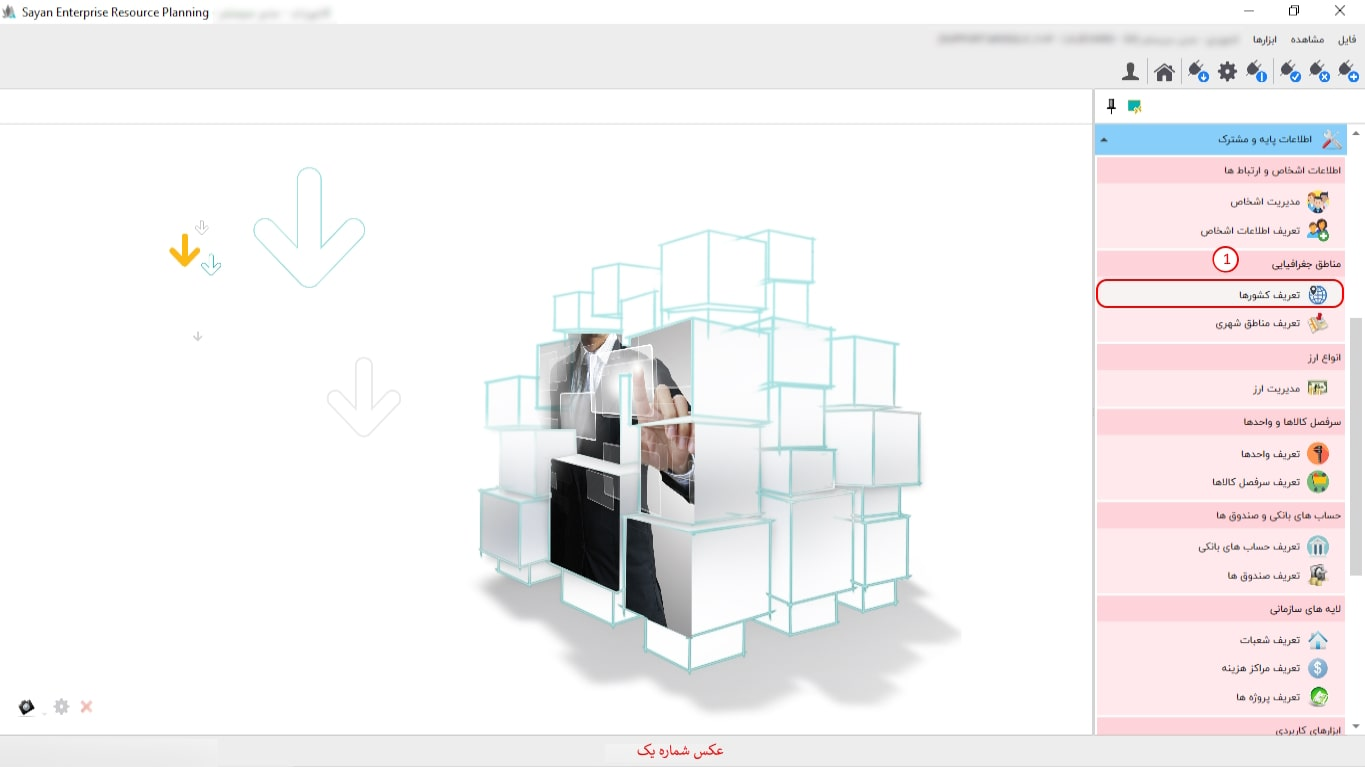
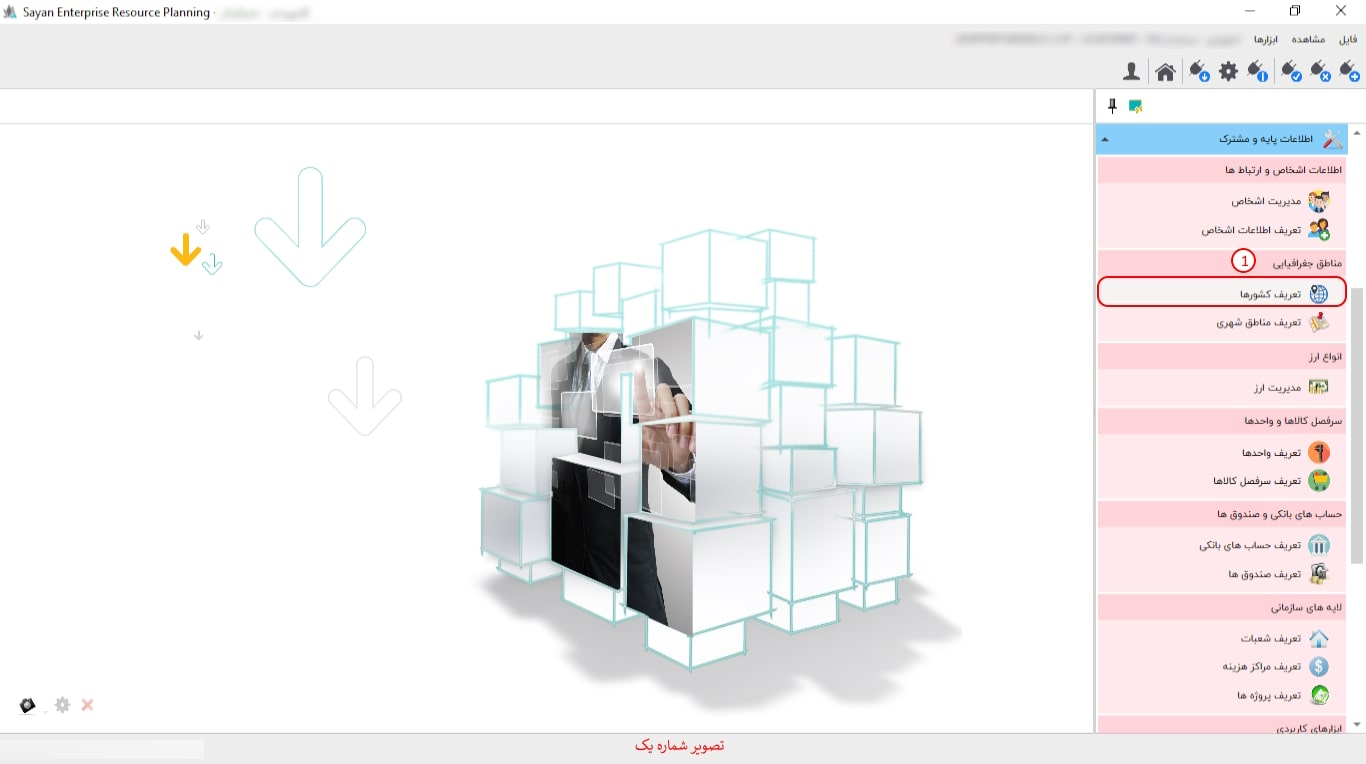
ایجاد متن

diff --git a/Help/fa-IR/_18_اطلاعات پایه و مشترک/_03_تعریف کشورها/Index.html b/Help/fa-IR/_18_اطلاعات پایه و مشترک/_03_تعریف کشورها/Index.html
@@ -19,7 +19,7 @@
 
 	<img class="FitPic" src="l1.jpg" />
 	<p>
-برای ادامه مطلب به عکس شماره دوم مراجعه نمایید.
+برای ادامه مطلب به تصویر شماره دو مراجعه نمایید.
 	</p>
 	<img class="FitPic" src="l2.jpg" />
 	<p>
@@ -30,7 +30,7 @@
 -کادر شماره دوم:در این بخش تمامی کشورهایی که تعریف کرده اید را می توانید مشاهده کنید.
 	</p>
 	<p>
-		برای ادامه مطلب به عکس شماره سوم مراجعه نمایید.
+		برای ادامه مطلب به تصویر  شماره سه مراجعه نمایید.
 	</p>
 	<img class="FitPic" src="l3.jpg" />
 	<p>
